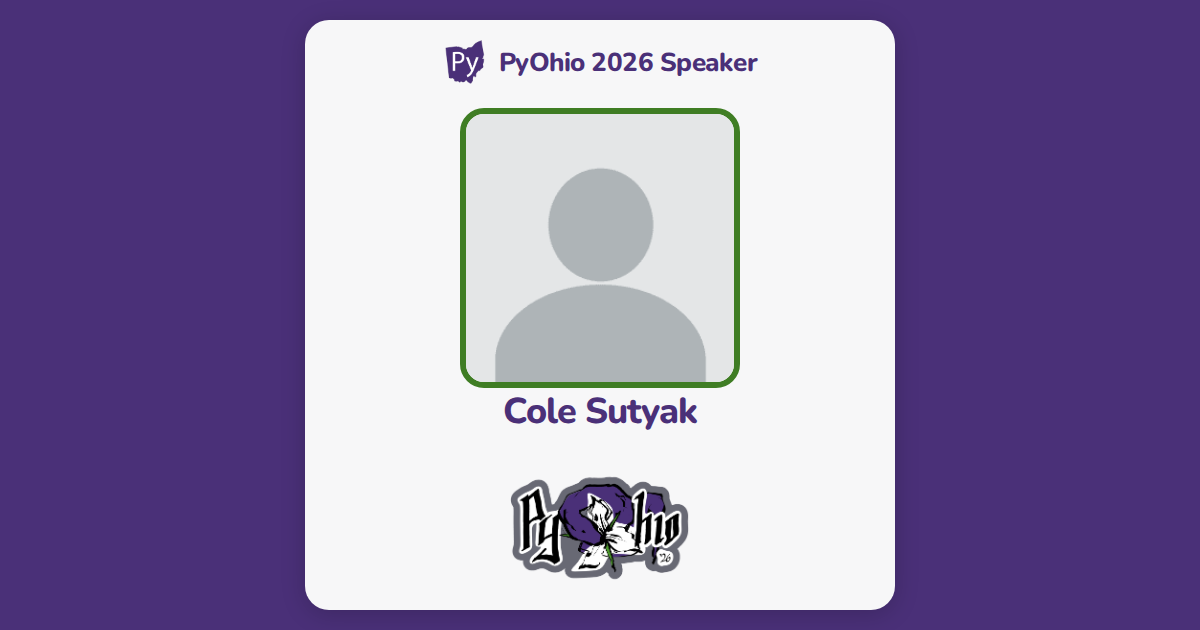
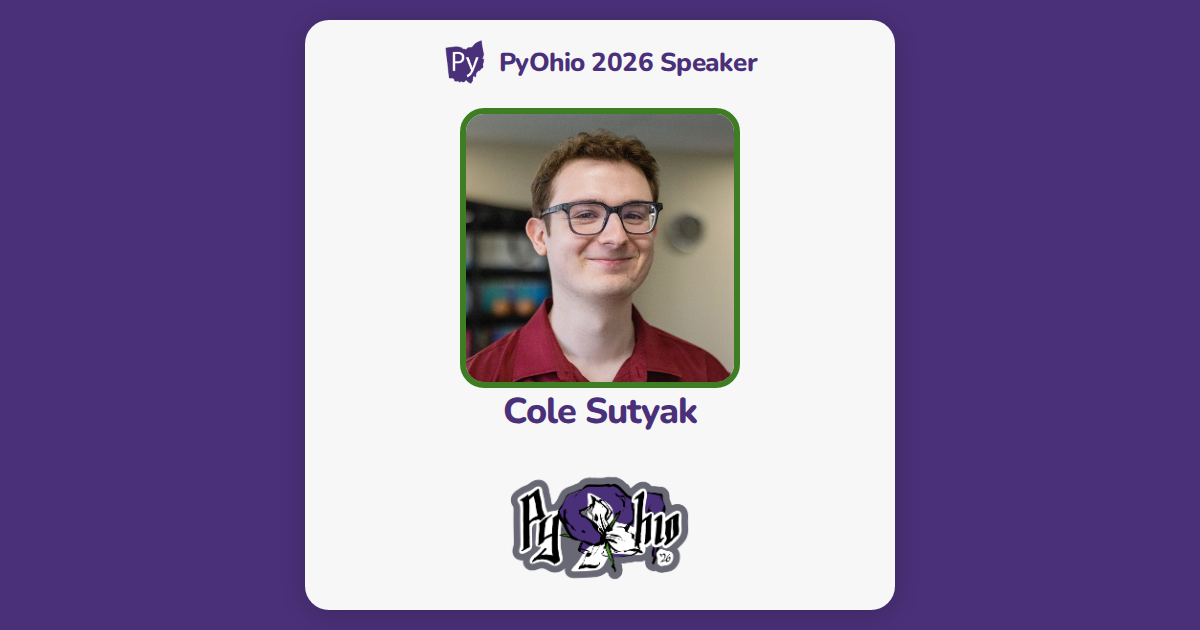
Update data and OG images from PreTalx (#589)

Changed region(s): [[0.37, 0.181, 0.6167, 0.6333]]

diff --git a/2026/content/program/speakers/cole-sutyak.md b/2026/content/program/speakers/cole-sutyak.md
@@ -13,10 +13,12 @@ talks:
       - name: Cole Sutyak
         slug: cole-sutyak
         code: 77LLQP
+        avatar: /2026/img/speakers/cole-sutyak.webp
 social_links:
   - url: https://www.linkedin.com/in/colesutyak/
     display: linkedin.com/in/colesutyak/
     icon: mdi:linkedin
+avatar: /2026/img/speakers/cole-sutyak.webp
 og_image: https://www.pyohio.org/2026/img/og/speakers/cole-sutyak.png
 ---
 

diff --git a/2026/content/program/speakers/index.md b/2026/content/program/speakers/index.md
@@ -41,7 +41,7 @@ speakers:
     avatar: /2026/img/speakers/cliff-jenkins.webp
   - name: Cole Sutyak
     slug: cole-sutyak
-    avatar:
+    avatar: /2026/img/speakers/cole-sutyak.webp
   - name: Dan Shernicoff
     slug: dan-shernicoff
     avatar: /2026/img/speakers/dan-shernicoff.webp

diff --git a/2026/content/program/talks/narrow-gpu-acceleration-with-python.md b/2026/content/program/talks/narrow-gpu-acceleration-with-python.md
@@ -10,6 +10,7 @@ speakers:
   - name: Cole Sutyak
     slug: cole-sutyak
     code: 77LLQP
+    avatar: /2026/img/speakers/cole-sutyak.webp
 og_image: https://www.pyohio.org/2026/img/og/talks/narrow-gpu-acceleration-with-python.png
 ---
 
